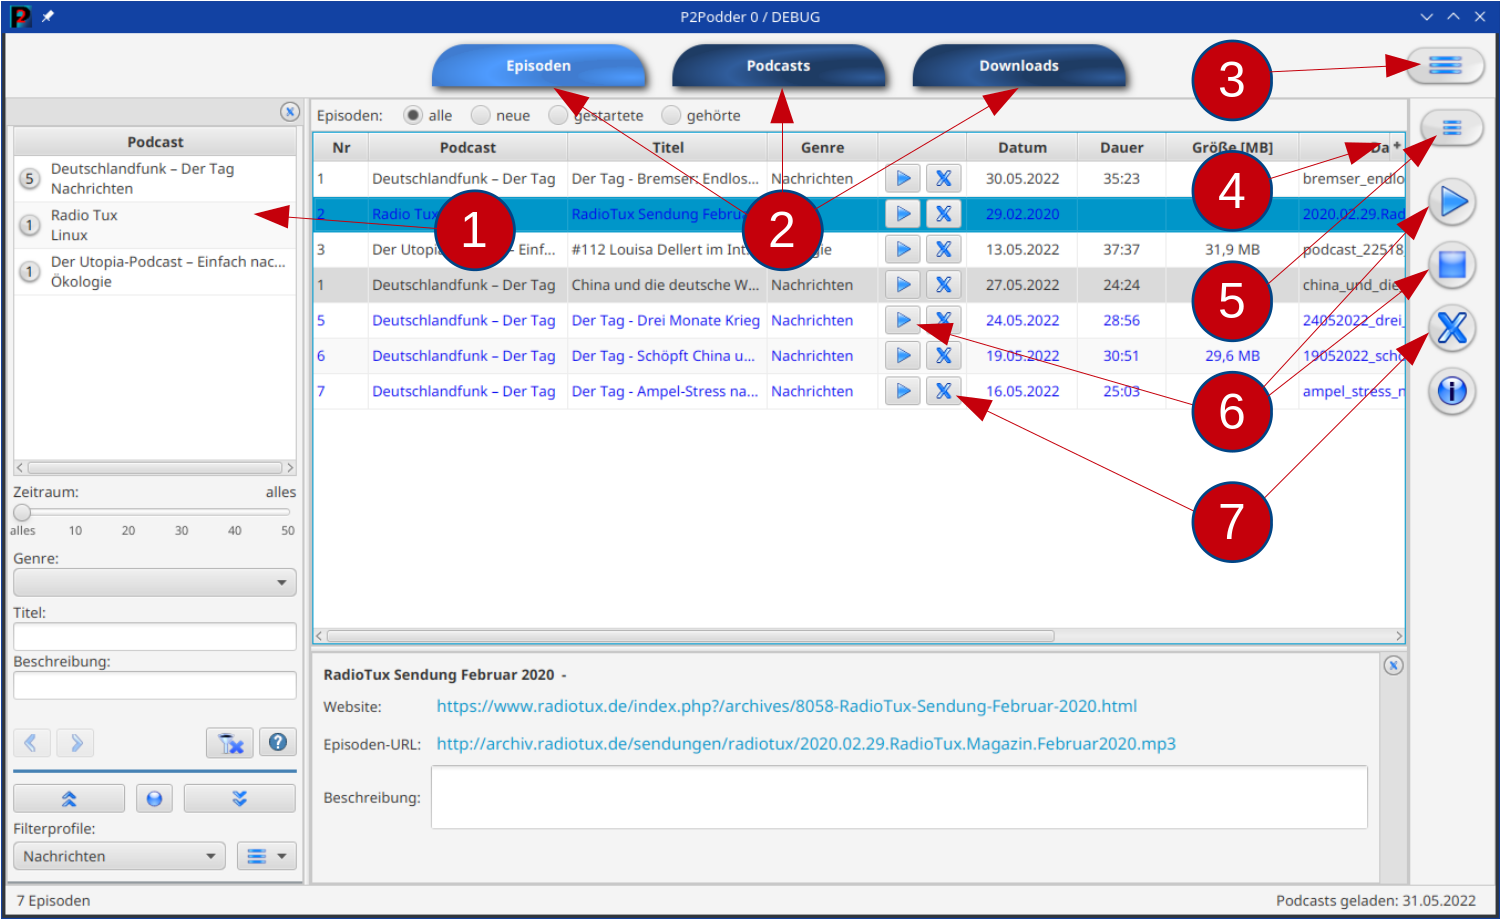
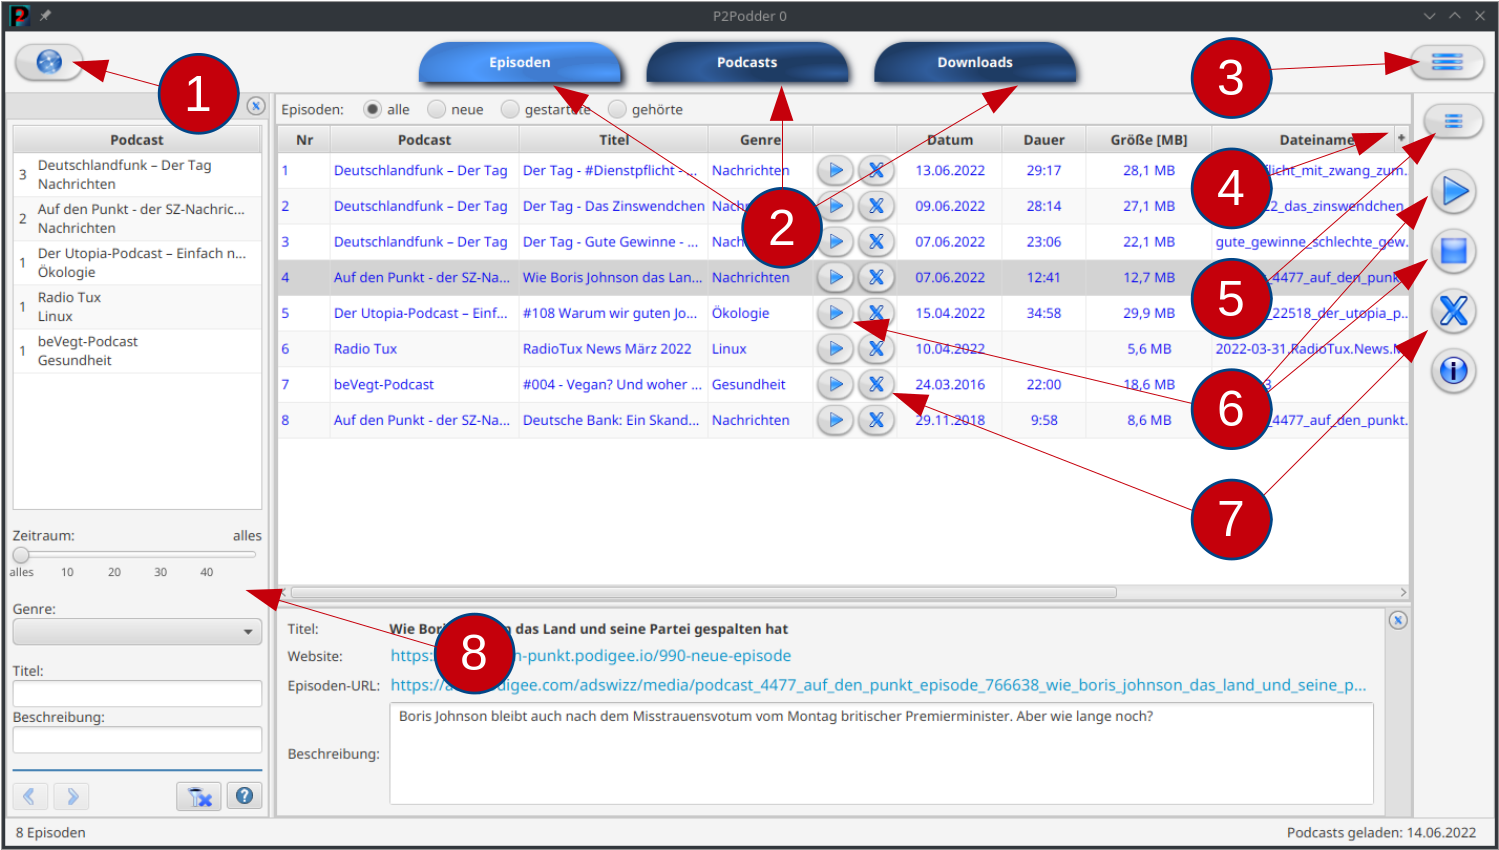
startDialog
Took 17 minutes

Changed region(s): [[0.0, 0.0, 1.0, 1.0], [0.8899, 0.8871, 0.9206, 0.9176]]

diff --git a/src/main/java/de/p2tools/p2podder/gui/startDialog/StartPane.java b/src/main/java/de/p2tools/p2podder/gui/startDialog/StartPane.java
@@ -82,33 +82,39 @@ public class StartPane {
         iv.setSmooth(true);
         iv.setImage(im);
 
-        Label text = new Label("1) Hier können die angezeigten" + P2LibConst.LINE_SEPARATOR +
-                "Episoden gefiltert werden." +
+        Label text = new Label(
+                "1) Hier kann die Programmoberfläche" + P2LibConst.LINE_SEPARATOR +
+                        "umgeschaltet werden. Es wird ein kleineres" + P2LibConst.LINE_SEPARATOR +
+                        "Fenster nur mit den Episoden, angezeigt." +
 
-                P2LibConst.LINE_SEPARATORx2 +
-                "2) Die Ansicht der Episoden, Podcasts und" + P2LibConst.LINE_SEPARATOR +
-                "der Downloads wird hier umgeschaltet." +
+                        P2LibConst.LINE_SEPARATORx2 +
+                        "2) Die Ansicht der Episoden, Podcasts und" + P2LibConst.LINE_SEPARATOR +
+                        "der Downloads wird hier umgeschaltet." +
 
-                P2LibConst.LINE_SEPARATORx2 +
-                "3) In dem Menü befinden sich" + P2LibConst.LINE_SEPARATOR +
-                "die Programmeinstellungen." +
+                        P2LibConst.LINE_SEPARATORx2 +
+                        "3) In dem Menü befinden sich" + P2LibConst.LINE_SEPARATOR +
+                        "die Programmeinstellungen." +
 
-                P2LibConst.LINE_SEPARATORx2 +
-                "4) Mit dem Pluszeichen können" + P2LibConst.LINE_SEPARATOR +
-                "Spalten in der Tabelle" + P2LibConst.LINE_SEPARATOR +
-                "ein- und ausgeblendet werden." +
+                        P2LibConst.LINE_SEPARATORx2 +
+                        "4) Mit dem Pluszeichen können" + P2LibConst.LINE_SEPARATOR +
+                        "Spalten in der Tabelle" + P2LibConst.LINE_SEPARATOR +
+                        "ein- und ausgeblendet werden." +
 
-                P2LibConst.LINE_SEPARATORx2 +
-                "5) In dem Menü können Episoden" + P2LibConst.LINE_SEPARATOR +
-                "gestartet und verarbeitet werden." +
+                        P2LibConst.LINE_SEPARATORx2 +
+                        "5) In dem Menü können Episoden" + P2LibConst.LINE_SEPARATOR +
+                        "gestartet und verarbeitet werden." +
 
-                P2LibConst.LINE_SEPARATORx2 +
-                "6) Damit können Episoden gestartet" + P2LibConst.LINE_SEPARATOR +
-                "und gestoppt werden." +
+                        P2LibConst.LINE_SEPARATORx2 +
+                        "6) Damit können Episoden gestartet" + P2LibConst.LINE_SEPARATOR +
+                        "und gestoppt werden." +
 
-                P2LibConst.LINE_SEPARATORx2 +
-                "7) Damit können Episoden" + P2LibConst.LINE_SEPARATOR +
-                "gelöscht werden.");
+                        P2LibConst.LINE_SEPARATORx2 +
+                        "7) Damit können Episoden" + P2LibConst.LINE_SEPARATOR +
+                        "gelöscht werden." +
+
+                        P2LibConst.LINE_SEPARATORx2 +
+                        "8) Hier können die angezeigten" + P2LibConst.LINE_SEPARATOR +
+                        "Episoden gefiltert werden.");
 
         hBox.getChildren().addAll(iv, text);
         TitledPane tpConfig = new TitledPane("Infos zur Programmoberfläche der Episoden", hBox);
